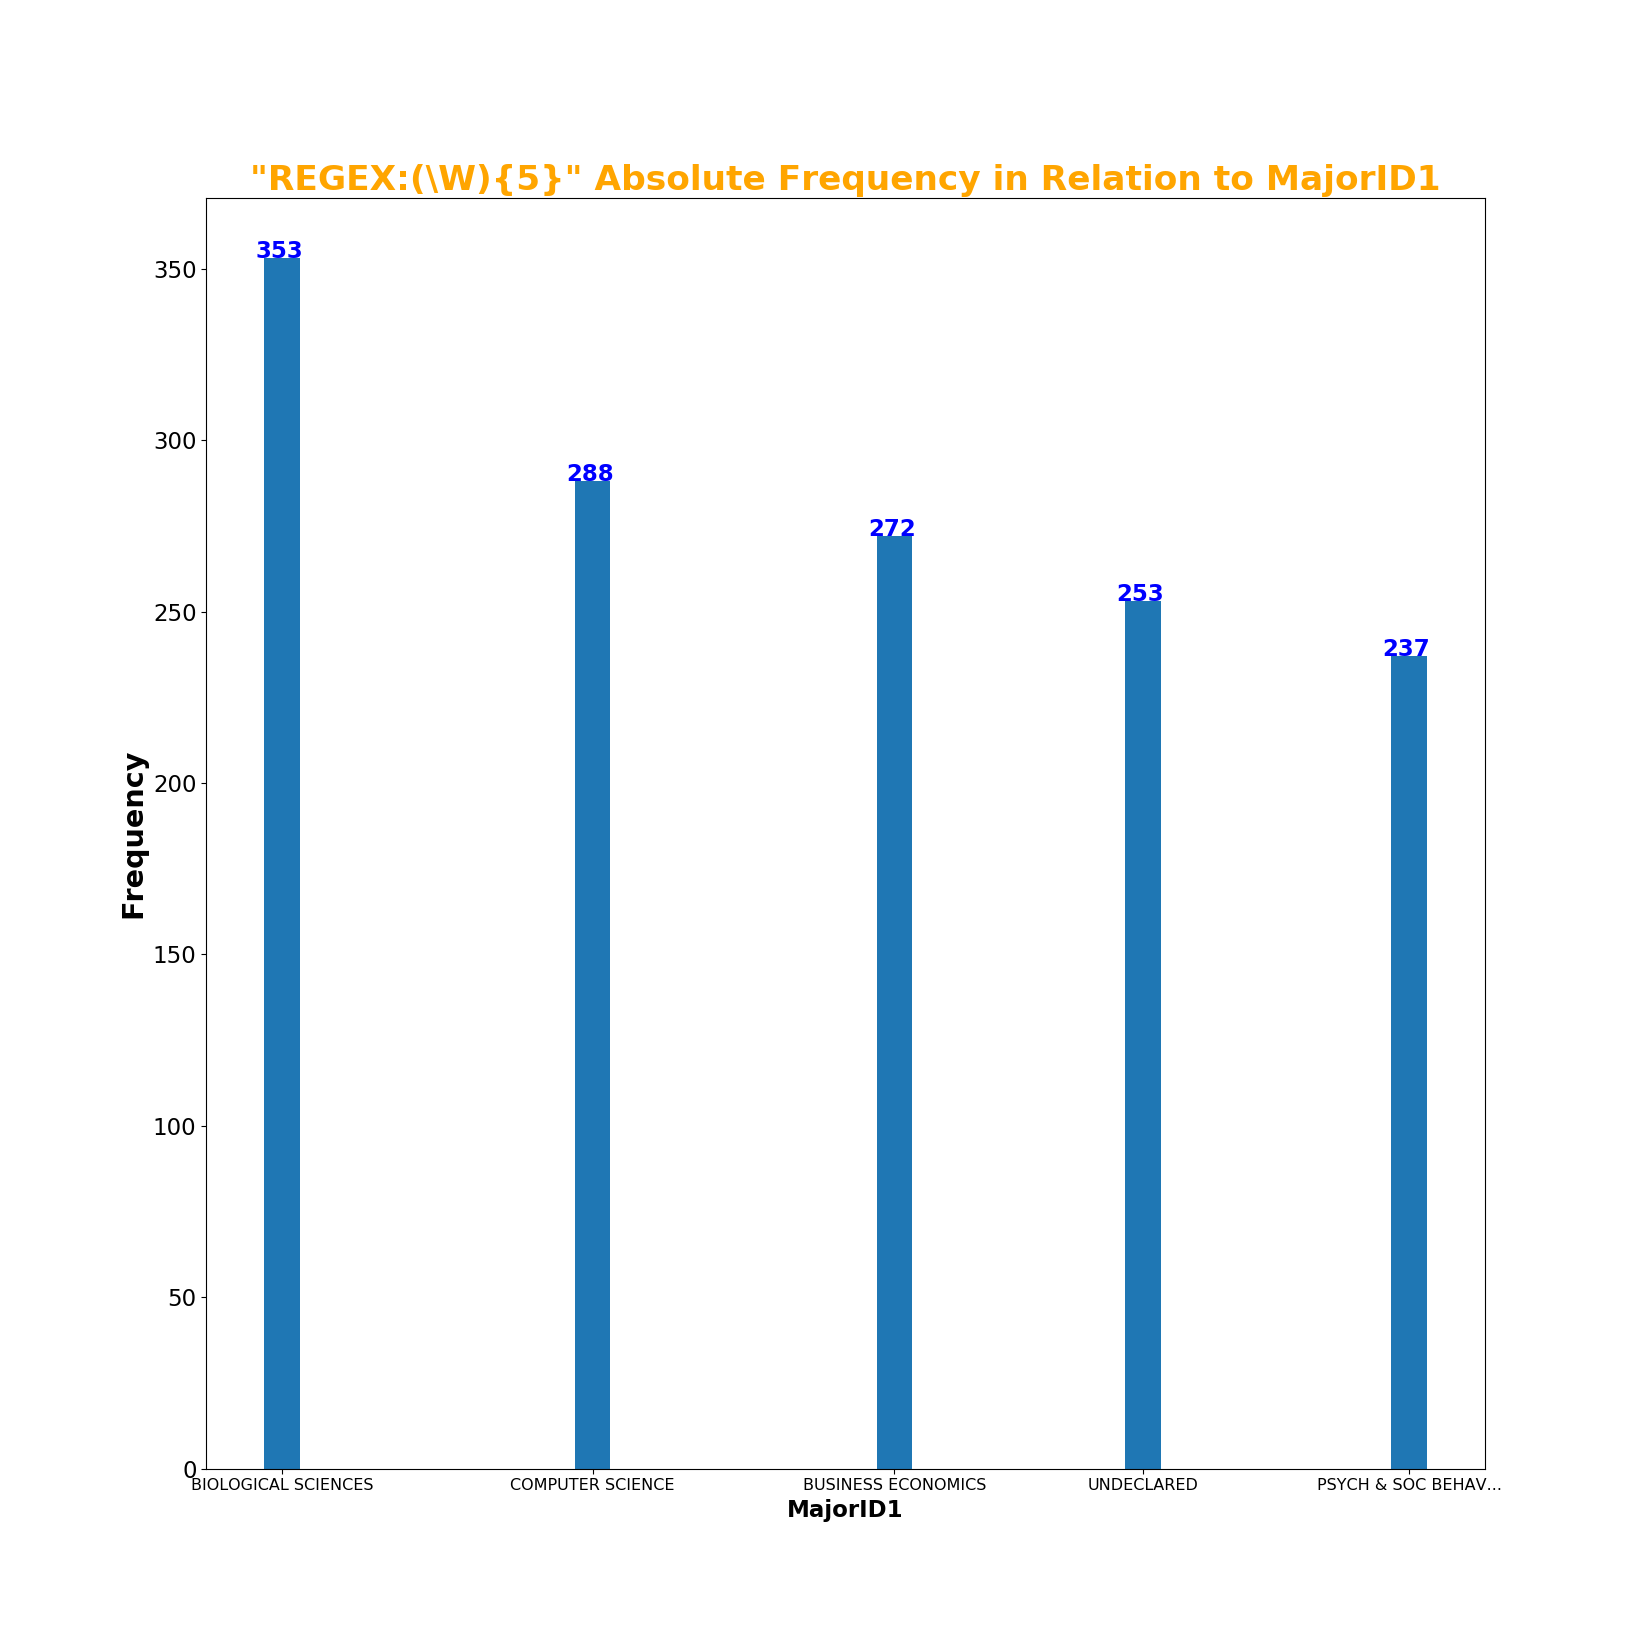
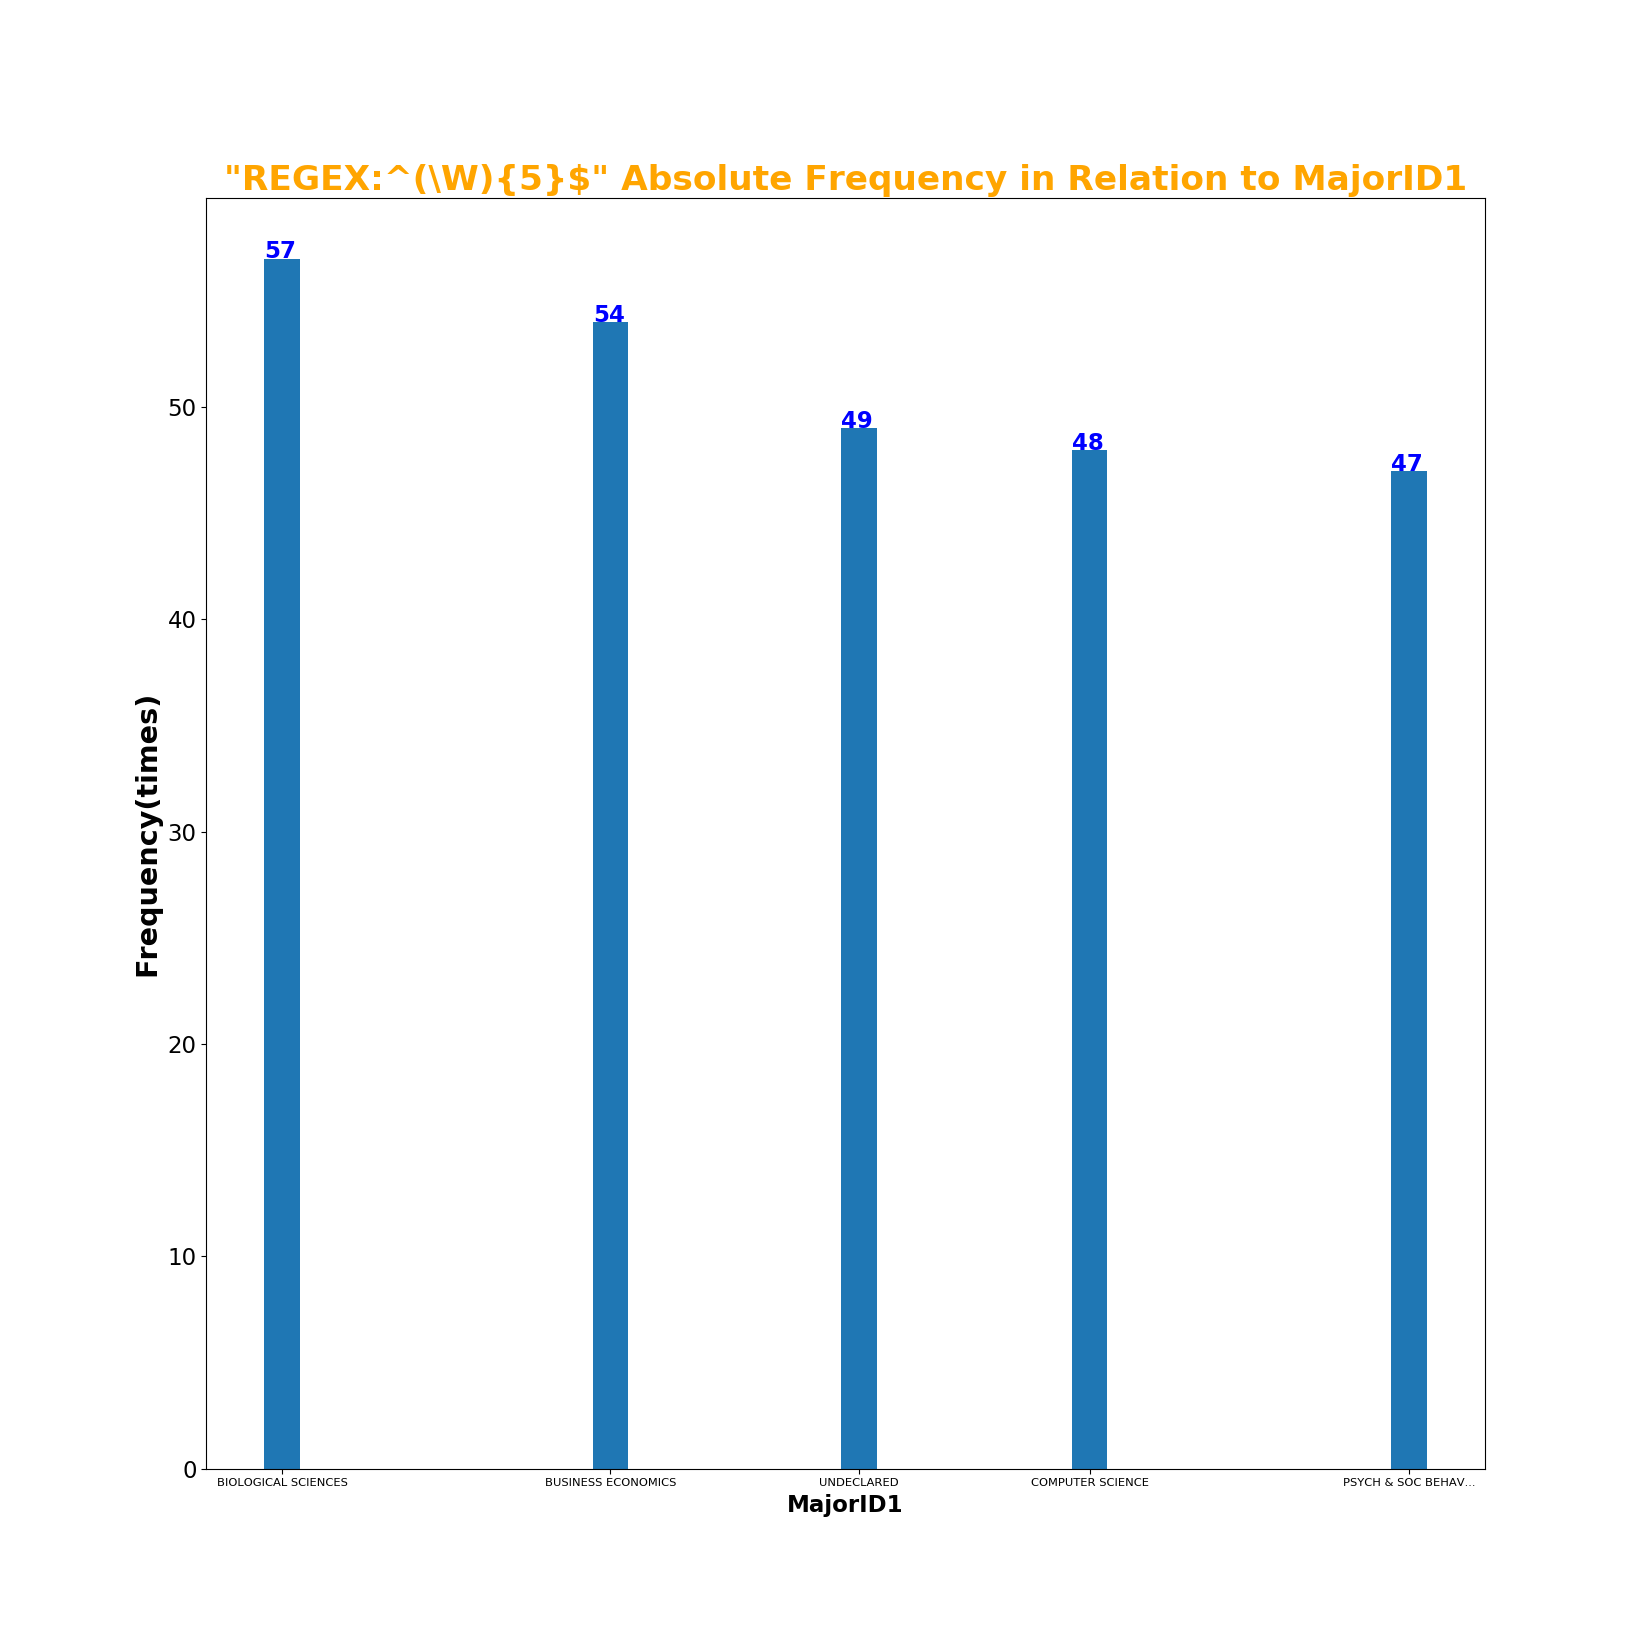
7-16 NL2
Update:
1. Bug fixes.

diff --git a/YaseeCorrelationAnalyzer.py b/YaseeCorrelationAnalyzer.py
@@ -3,9 +3,11 @@ from YaseeFreqCharts import YaseeFreqCharts
 from functools import reduce
 
 class YaseeCorrelationAnalyzer(YaseeFreqCharts):
-    def storeMIs(self, file_name:str, sheet:str, target_column:str, target_expr:str):
+
+    def storeMIs(self, file_name:str, sheet:str, target_column:str, target_expr:str) -> str:
         MIs = self._calcMIScores(sheet, target_column, target_expr)
         self.storeMIScoresAsTXT(MIs, file_name, target_expr)
+        return self.consoleMIScores(MIs)
 
     def _calcMIScores(self, sheet:str, target_column:str, target_expr:str) -> dict:
 
@@ -22,14 +24,22 @@ class YaseeCorrelationAnalyzer(YaseeFreqCharts):
         return MI_dict
 
     @staticmethod
+    def consoleMIScores(MI_dict:dict) -> str:
+        return "\n========================================\n" \
+               "You have the following columns to visualize correlation, ranked by their " \
+               "respective Mutual Information Scores.\n" + \
+               reduce(YaseeCorrelationAnalyzer.combine_as_lines,
+                      (reduce(YaseeCorrelationAnalyzer.combine_as_entry, entry) for entry in sorted(MI_dict.items(), key=lambda x: -x[1]))) + \
+               "\n========================================\n"
+
+
+    @staticmethod
     def storeMIScoresAsTXT(MI_dict:dict, file_name:str, target_expr:str) -> None:
         file = open((file_name + ".txt") if (".txt" not in file_name) else file_name, 'w')
 
         try:
-            combine_as_lines = lambda x, y: f"{x}\n{y}"
-            combine_as_entry = lambda x, y: f"{x}: {y}"
             file.write(f'"{target_expr.upper()}" Mutual Information Scores with respect to:\n\n\n')
-            file.write(reduce(combine_as_lines, (reduce(combine_as_entry, entry) for entry in
+            file.write(reduce(YaseeCorrelationAnalyzer.combine_as_lines, (reduce(YaseeCorrelationAnalyzer.combine_as_entry, entry) for entry in
                                                  sorted(MI_dict.items(), key=lambda x: -x[1]))))
 
         finally:

diff --git a/YaseeFreqCharts.py b/YaseeFreqCharts.py
@@ -77,7 +77,7 @@ class YaseeFreqCharts(YaseeAnalysisClass):
 
 
         YaseeFreqCharts.storeChart(file_name + " RELATIVE", f"\"{target_expr.upper()}\" "
-        f"{'Relative Frequency(%)'} "
+        f"{'Relative Frequency'} "
         f"in Relation to {identity_column}", relative_ranked, identity_column)
 
         YaseeFreqCharts.storeChart(file_name + " ABSOLUTE", f"\"{target_expr.upper()}\" "
@@ -85,8 +85,6 @@ class YaseeFreqCharts(YaseeAnalysisClass):
         f"in Relation to {identity_column}", absolute_ranked, identity_column)
 
         YaseeFreqCharts.storeContextasTXT(file_name, target_expr, context)
-
-
 
 
     @staticmethod
@@ -125,6 +123,7 @@ class YaseeFreqCharts(YaseeAnalysisClass):
         if len(ranked_freq) == 0:
             raise NoSearchResultsFound
 
+
         xAxis_widths = [len(word) for word, freq in ranked_freq]
         indexes = [xAxis_widths[0], ]
         for i in range(1, len(xAxis_widths)):
@@ -140,7 +139,7 @@ class YaseeFreqCharts(YaseeAnalysisClass):
                       fontsize=canvas_width * 0.5)
         pyplot.yticks(fontsize=canvas_length * 1)
         pyplot.xlabel(categories, fontweight='bold', fontsize=canvas_width, horizontalalignment='center')
-        pyplot.ylabel("Frequency", fontweight='bold', fontsize=canvas_length * 1.25, horizontalalignment='center')
+        pyplot.ylabel("Frequency (%)" if 'relative' in chart_name.lower() else "Frequency(times)", fontweight='bold', fontsize=canvas_length * 1.25, horizontalalignment='center')
 
         pyplot.title(chart_name, fontweight='bold', color='orange', fontsize=canvas_width * 1.5,
                      horizontalalignment='center')

diff --git a/main.py b/main.py
@@ -5,7 +5,6 @@ from YaseeCorrelationAnalyzer import YaseeCorrelationAnalyzer
 from YaseeFreqCharts import YaseeFreqCharts
 from YaseeFreqCharts import NoSearchResultsFound
 from YaseeAnalysisClass import YaseeAnalysisClass
-from functools import reduce
 
 
 
@@ -71,7 +70,6 @@ class Console():
                 analysis:YaseeCorrelationAnalyzer = init_analysis_class(YaseeCorrelationAnalyzer)
                 print("What would be the name of your analysis file?")
                 output_path = input().strip()
-                output_path = (output_path + ".txt") if (".txt" not in output_path) else output_path
 
 
                 print("Which excel sheet to analyze?")
@@ -89,14 +87,7 @@ class Console():
                       "Examples: pre*, *ation, research, ...")
                 target_expression = input().strip()
 
-                analysis.storeMIs(output_path, target_sheet, data_column, target_expression)
-                file = open(output_path, 'r')
-                try:
-                    print("========================================")
-                    print(reduce(lambda x, y: x+y, file.readlines()))
-                    print("========================================")
-                finally:
-                    file.close()
+                print(analysis.storeMIs(output_path, target_sheet, data_column, target_expression))
 
 
                 print("And what column to analyze in relation to the previously chosen column?")

diff --git a/test_YaseeFreqCharts.py b/test_YaseeFreqCharts.py
@@ -46,7 +46,7 @@ class YaseeFreqChartsTest(unittest.TestCase):
         self.assertTrue(os.path.exists("test/RelatedWordSuffixtFreq 'ation'.txt"))
 
     def test_storeRelatedRECase1(self):
-        self.yfc.storeRelatedWordFreq("FQ18", "MajorID1", "VisitNotes", "regex:(\w){5}",
+        self.yfc.storeRelatedWordFreq("FQ18", "MajorID1", "VisitNotes", "regex:^(\w){5}$",
                                       "test/RelatedRE 5-letter-word")
         self.assertTrue(os.path.exists("test/RelatedRE 5-letter-word ABSOLUTE.png"))
         self.assertTrue(os.path.exists("test/RelatedRE 5-letter-word RELATIVE.png"))

diff --git a/YaseeAnalysisClass.py b/YaseeAnalysisClass.py
@@ -4,6 +4,9 @@ from YaseeStopWords import YaseeStopWords
 from YaseeReportFile import YaseeReportFile
 
 class YaseeAnalysisClass():
+    combine_as_lines = lambda x, y: f"{x}\n{y}"
+    combine_as_entry = lambda x, y: f"{x}: {y}"
+
     def __init__(self, path: str, stopwords: YaseeStopWords or frozenset = None):
         if stopwords == None:
             self._ysw = YaseeStopWords()
